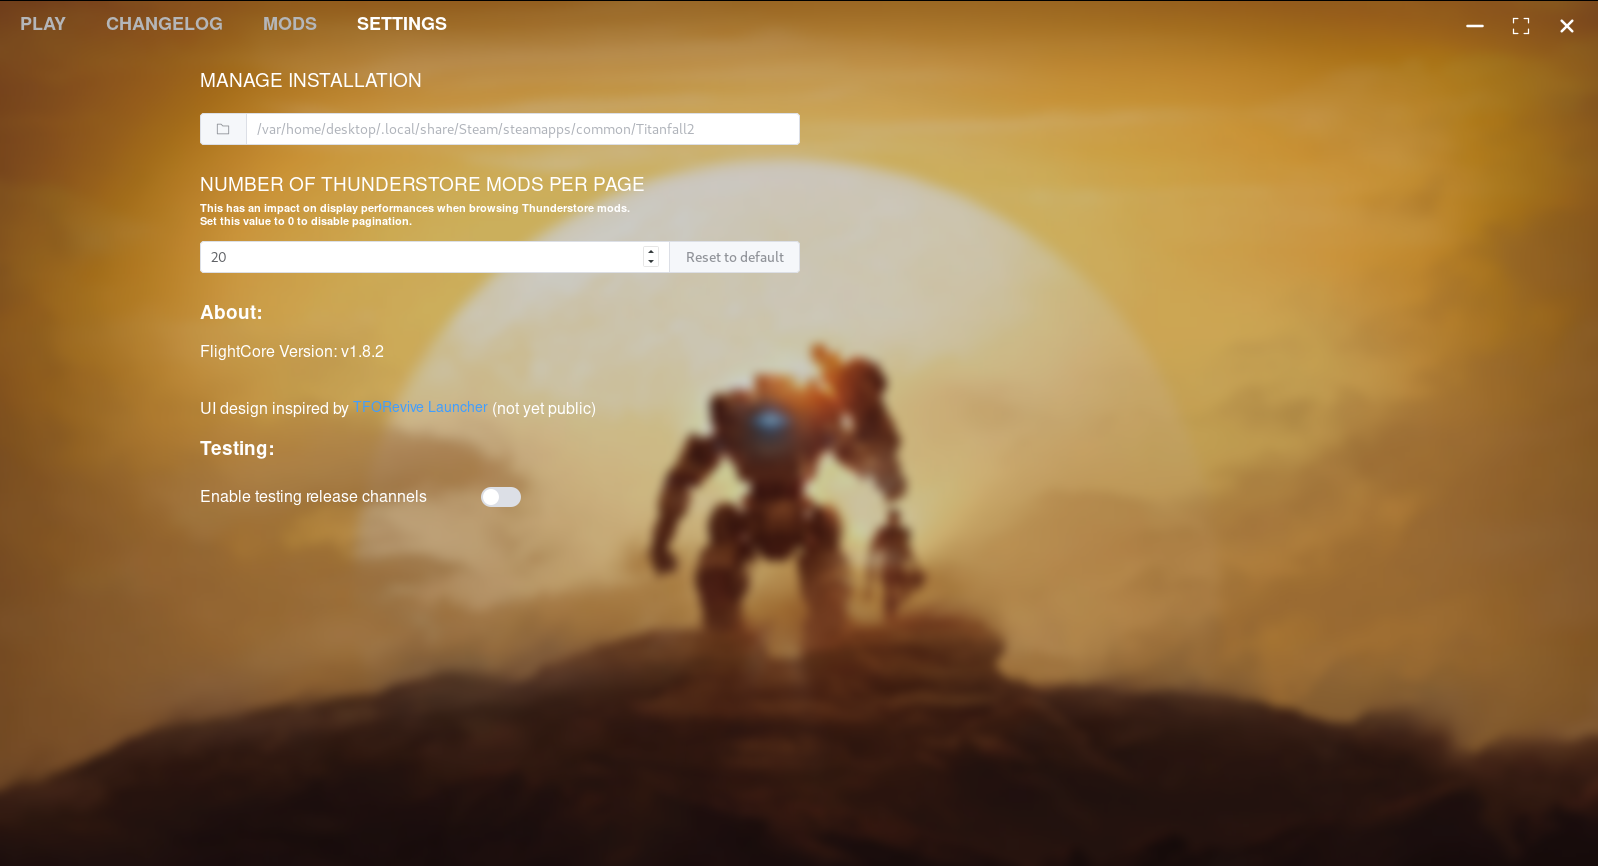
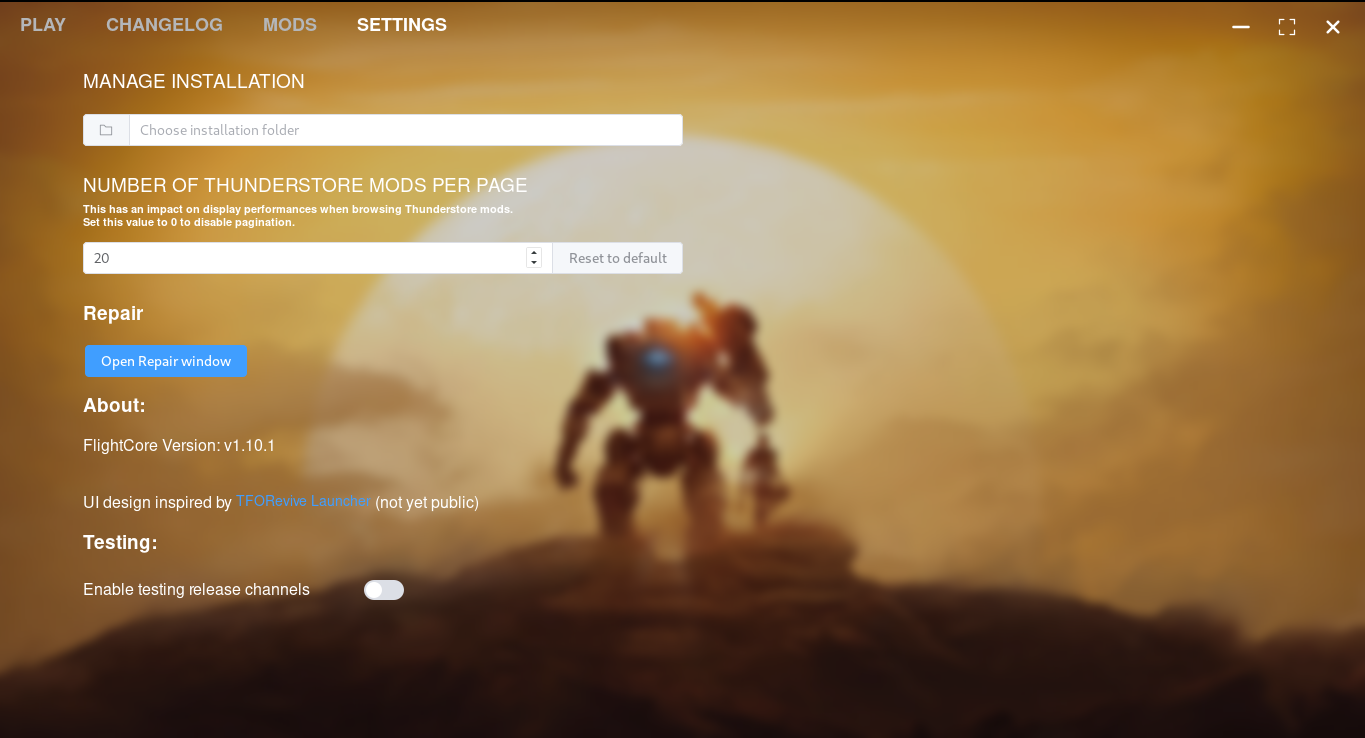
Update FlightCore guide, mention Repair window (R2Northstar/NorthstarDocs#146)

diff --git a/docs/docs/installing-northstar/northstar-installers/flightcore-guide.md b/docs/docs/installing-northstar/northstar-installers/flightcore-guide.md
@@ -22,25 +22,25 @@ For Linux, you want to download `flight-core_X.Y.Z_amd64.AppImage` (X Y Z being 
 
 ![FlightCore Main Window](../../images/flightcore-main-window.png)
 
-This is the *Main Menu* of FlightCore. It includes the *Play*, *Changelog*, *Mods*, and *Settings* tabs, all of which will be covered in the guide.
+This is the _Main Menu_ of FlightCore. It includes the _Play_, _Changelog_, _Mods_, and _Settings_ tabs, all of which will be covered in the guide.
 
 ## Play 
 
 ![Play tab's information](../../images/flightcore-main-window-information.png)
 
-The *Play* tab is actually the main window that FlightCore opens to. It includes some useful information in the bottom left, such as the version of Northstar you have installed, how many players are online, how many servers are online, and a button to launch Northstar.
+The _Play_ tab is actually the main window that FlightCore opens to. It includes some useful information in the bottom left, such as the version of Northstar you have installed, how many players are online, how many servers are online, and a button to launch Northstar.
 
 ## Changelog
 
 ![FlightCore's Changelog tab](../../images/flightcore-changelog.png)
 
-The *Changelog* tab displays information from Northstar's [GitHub page for releases](https://github.com/R2Northstar/Northstar/releases), detailing what a new update to Northstar brings.
+The _Changelog_ tab displays information from Northstar's [GitHub page for releases](https://github.com/R2Northstar/Northstar/releases), detailing what a new update to Northstar brings.
 
 ## Mods
 
 ![FlightCore's Mods browser](../../images/flightcore-mod-browser-window.png)
 
-The *Mods* tab of Flightcore can display either mods installed locally, or a browser for installing mods from [Northstar's Thunderstore page](https://northstar.thunderstore.io/). The default option it opens to when clicking the tab is displaying the mods you have installed.
+The _Mods_ tab of Flightcore can display either mods installed locally, or a browser for installing mods from [Northstar's Thunderstore page](https://northstar.thunderstore.io/). The default option it opens to when clicking the tab is displaying the mods you have installed.
 
 `Local` displays mods you have installed currently, with options to toggle them on or off or delete them.
 
@@ -50,4 +50,10 @@ The *Mods* tab of Flightcore can display either mods installed locally, or a bro
 
 ![FlightCore's Settings tab](../../images/flightcore-settings.png)
 
-The *Settings* tab is the fourth and final tab of FlightCore. This tab allows you to view and choose your Titanfall2 directory (default directories can be found in the [Default Directories](../troubleshooting.md#game-location) section), select how many mods you want to see per page on the online browser in FlightCore, the version of FlightCore you're running, as well as a toggle to enable testing release channels.
+The _Settings_ tab is the fourth and final tab of FlightCore. This tab allows you to view and choose your Titanfall2 directory (default directories can be found in the [Default Directories](../troubleshooting.md#game-location) section), select how many mods you want to see per page on the online browser in FlightCore, the version of FlightCore you're running, a toggle to enable testing release channels, and an option to see a tab for quick access to options designed to help you troubleshoot NorthStar, labeled _Repair_.
+
+![FlightCore's Repair tab](../../images/flightcore-repair.png)
+
+This tab is very useful to both you and anyone that might be trying to help you, with both general Northstar options and FlightCore specific options. The _"Disable all but core mods"_ button allows you to quickly disable all mods that are installed after installing Northstar, allowing you to quickly see if a mod you have installed is causing issues. _"Force reinstall Northstar"_ does what the name implies, completely reinstalling Northstar in the event of something going wrong with your Northstar files.
+
+The FlightCore specific options include _"Force delete temp download folder"_, which will forcibly delete a folder that FlightCore creates to place a mod before it finishes fully installing. This process is normally automatically done, but the option is there in the event of the automatic feature failing, and as a way to clean things up manually. The last option of the Repair screen is the _"Delete FlightCore persistent store"_ button. This button may sound complicated, but it essentially just resets FlightCore settings such as install path, in case you ever want to/need to "reset" FlightCore.
